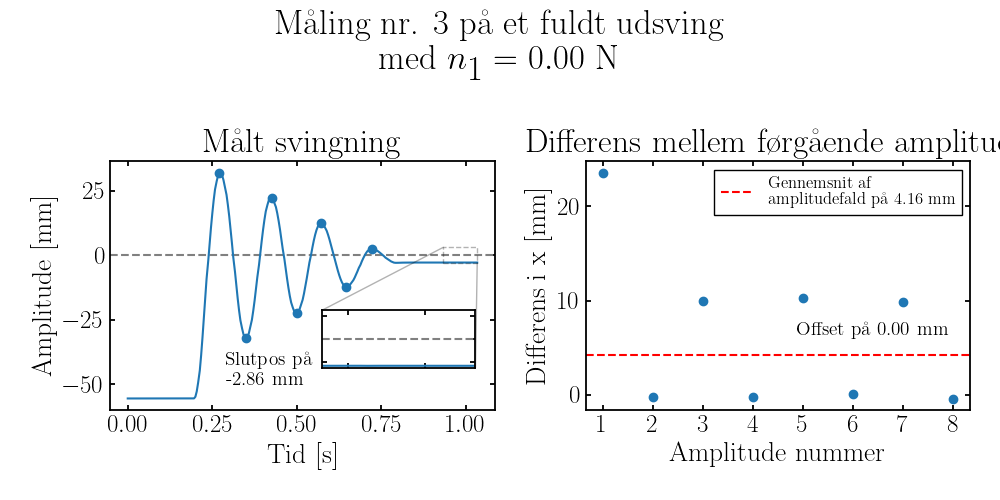
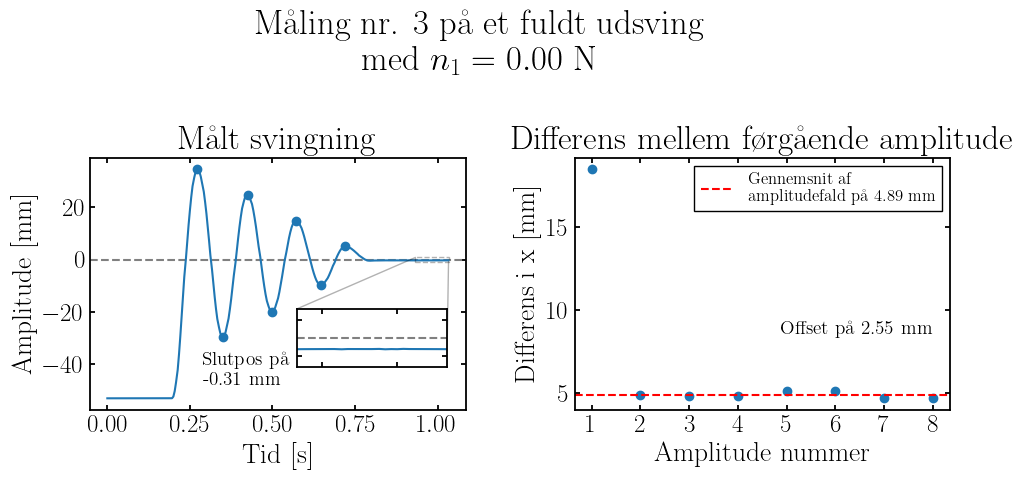
færddigjort resultater og diskussion

diff --git a/diskussion.tex b/diskussion.tex
@@ -12,3 +12,9 @@ At offsettet virker forklarer dog ikke hvorfor det var nødvendigt til at starte
 enten fordi vi ikke kalibrerede dem godt nok, eller fordi de ikke har været helt i samme højde, og de dermed har skubbet skævt til loddet.
 Før at vi kan være sikre på at nulpunktet var problemet, ville vi altså være nødt til at udføre eksperimentet igen, hvor vi sikrer os at skubber med samme kraftkonstant, 
 men vi kunne alligevel forsøge at se hvilke resultater vi kunne få under antagelse af at det var problemet. 
+
+Offsettet fikser dog ikke alt. Der var stadig noget data hvor at dæmpningen ikke var konstant i nogen retning, 
+og i alt dataen havde vi et outlier punkt lige i starten, hvor den konsekvent faldt meget mere end i resten af optagelsen.
+Dette kan højst sandsynligt forklares ved at energi har kunnet forlade systemet på andre ikke hensigtsmæssige måder. 
+For eksempel kunne det tænkes at energien går til resten af opstillingen igennem rystelser, og vi observerede også at der skete bevægelse vinkelret på den ønskede bevægelsesretning.
+Der er selvfølgelig også vindmodstand som vi totalt har ignoreret, men vi tænker stadig den er negligibel da vi arbejder ved ret lave hastigheder.
